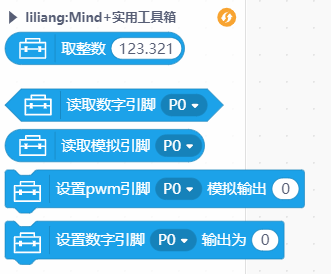
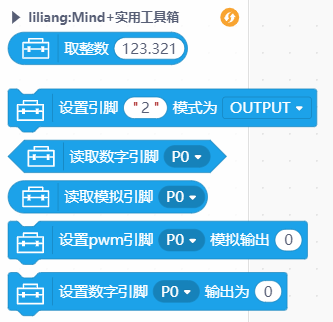
0.0.3

diff --git a/arduinoC/main.ts b/arduinoC/main.ts
@@ -26,6 +26,14 @@ enum BTN {
     AB
 }
 
+enum PINMODE {
+    //% block="INPUT"
+    INPUT,
+    //% block="OUTPUT"
+    OUTPUT,
+    //% block="INPUT_PULLUP"
+    INPUT_PULLUP
+}
 
 //% color="#1ca2e9" iconWidth=50 iconHeight=40
 namespace toolbox {
@@ -36,10 +44,22 @@ namespace toolbox {
         Generator.addCode([`int(${flt})`,Generator.ORDER_UNARY_POSTFIX]);
 
     }
-
-
+    
     //% block="---"
     export function noteSep1() {
+
+    }
+
+    //% block="set pin [PININPUT] pinMode [PINMODE]" blockType="command"
+    //% PININPUT.shadow="string" PININPUT.defl="2"
+    //% PINMODE.shadow="dropdown" PINMODE.options="PINMODE"  PINMODE.defl="PINMODE.OUTPUT"
+    export function pinMode(parameter: any, block: any) {
+        let pin=parameter.PININPUT.code;
+        let mode=parameter.PINMODE.code;
+
+        if(pin.charAt()==`\"`) pin=	pin.substring(1,pin.length-1)
+        console.log(pin)
+        Generator.addCode(`pinMode(${pin}, ${mode});`);
 
     }
 
@@ -47,7 +67,7 @@ namespace toolbox {
     //% PIN1.shadow="dropdownRound"  PIN1.options="PIN_DigitalRead"
     export function digitalRead(parameter: any, block: any) {
         let pin=parameter.PIN1.code;
-        Generator.addCode([`digitalRead(${pin})`,Generator.ORDER_UNARY_POSTFIX]);
+        Generator.addCode([`digitalRead1(${pin})`,Generator.ORDER_UNARY_POSTFIX]);
 
     }
        
@@ -55,7 +75,7 @@ namespace toolbox {
     //% PIN2.shadow="dropdownRound"  PIN2.options="PIN_AnalogRead"
     export function analogRead(parameter: any, block: any) {
         let pin=parameter.PIN2.code;
-        Generator.addCode([`analogRead(${pin})`,Generator.ORDER_UNARY_POSTFIX]);
+        Generator.addCode([`analogRead1(${pin})`,Generator.ORDER_UNARY_POSTFIX]);
 
     }
 
@@ -65,7 +85,7 @@ namespace toolbox {
     export function analogWrite(parameter: any, block: any) {
         let pin=parameter.PIN3.code;
         let pwm=parameter.PWM.code;
-        Generator.addCode(`analogWrite(${pin},${pwm});`);
+        Generator.addCode(`analogWrite1(${pin},${pwm});`);
 
     }
 
@@ -75,7 +95,7 @@ namespace toolbox {
     export function digitalWrite(parameter: any, block: any) {
         let pin=parameter.PIN4.code;
         let val=parameter.VAL.code;
-        Generator.addCode(`digitalWrite(${pin},${val});`);
+        Generator.addCode(`digitalWrite1(${pin},${val});`);
 
     }
 
@@ -83,5 +103,7 @@ namespace toolbox {
     export function noteSep2() {
 
     }
+
+
 
 }

diff --git a/README.md b/README.md
@@ -49,3 +49,4 @@ mpython        |             |        √      |             |
 ## Release Logs
 * V0.0.1  取整功能
 * V0.0.2  增加引脚下拉输入功能
+* V0.0.3  增加设置引脚模式功能
